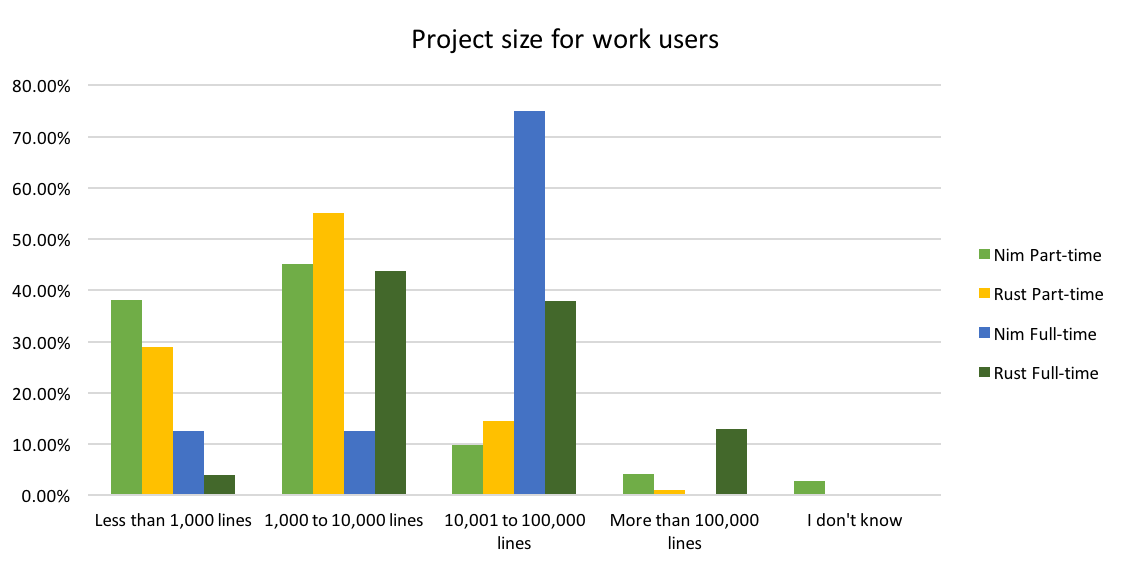
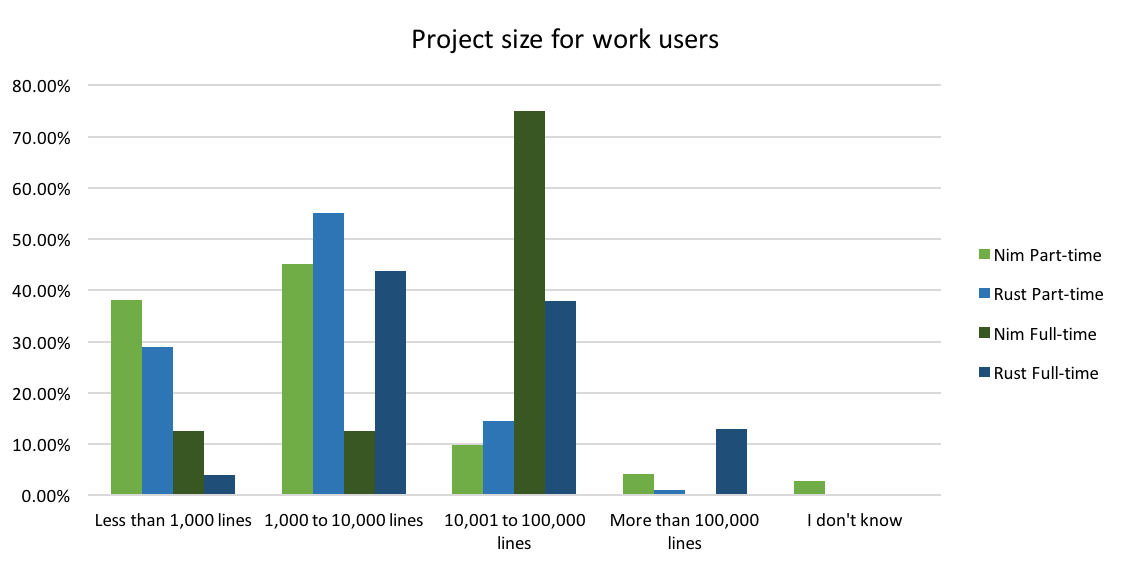
Finishing touches on survey article.

diff --git a/web/ticker.html b/web/ticker.html
@@ -1,3 +1,8 @@
+<a class="news" href="$1news/2016_09_03_nim_community_survey_results.html">
+  <h4>September 3, 2016</h4>
+  <p>Nim Community Survey results</p>
+</a>
+
 <a class="news" href="$1news/2016_08_06_bountysource_update_the_road_to_v10.html">
   <h4>August 6, 2016</h4>
   <p>BountySource Update: The Road to v1.0</p>
@@ -16,10 +21,5 @@
 <a class="news" href="$1news/2016_06_04_meet_our_bountysource_sponsors.html">
   <h4>June 04, 2016</h4>
   <p>Meet our BountySource sponsors</p>
-</a>
-
-<a class="news" href="$1news/2016_01_27_nim_in_action_is_now_available.html">
-  <h4>January 27, 2016</h4>
-  <p>Nim in Action is now available!</p>
 </a>
 <a href="$1news.html" class="blue">See All News...</a>

diff --git a/web/news/2016_09_03_nim_community_survey_results.rst b/web/news/2016_09_03_nim_community_survey_results.rst
@@ -3,7 +3,7 @@ Nim Community Survey Results
 
 .. container:: metadata
 
-  Posted by Dominik Picheta on 20/08/2016
+  Posted by Dominik Picheta on 3 September 2016
 
 We have recently closed the 2016 Nim Community Survey. I am happy to
 say that we have received exactly 790 responses, huge thanks go to the people
@@ -242,7 +242,7 @@ of that it's good to know which editor is most popular among our community.
   </a>
 
 Looks like Vim is the winner with almost 30%. Followed by Sublime Text and
-Visual Studio Code. Aporia, the Nim IDE, gets a respectable 15.5%. There was
+Emacs. Aporia, the Nim IDE, gets a respectable 15.5%. There was
 also more than
 17% of answers which included "Other" editors, such as: Notepad++, Geany, gedit,
 and Kate.

diff --git a/web/news.rst b/web/news.rst
@@ -2,6 +2,9 @@
 News
 ====
 
+`2016-09-03 Nim Community Survey results <news/2016_09_03_nim_community_survey_results.html>`_
+===================================
+
 `2016-08-06 BountySource Update: The Road to v1.0 <news/2016_08_06_bountysource_update_the_road_to_v10.html>`_
 ===================================
 
